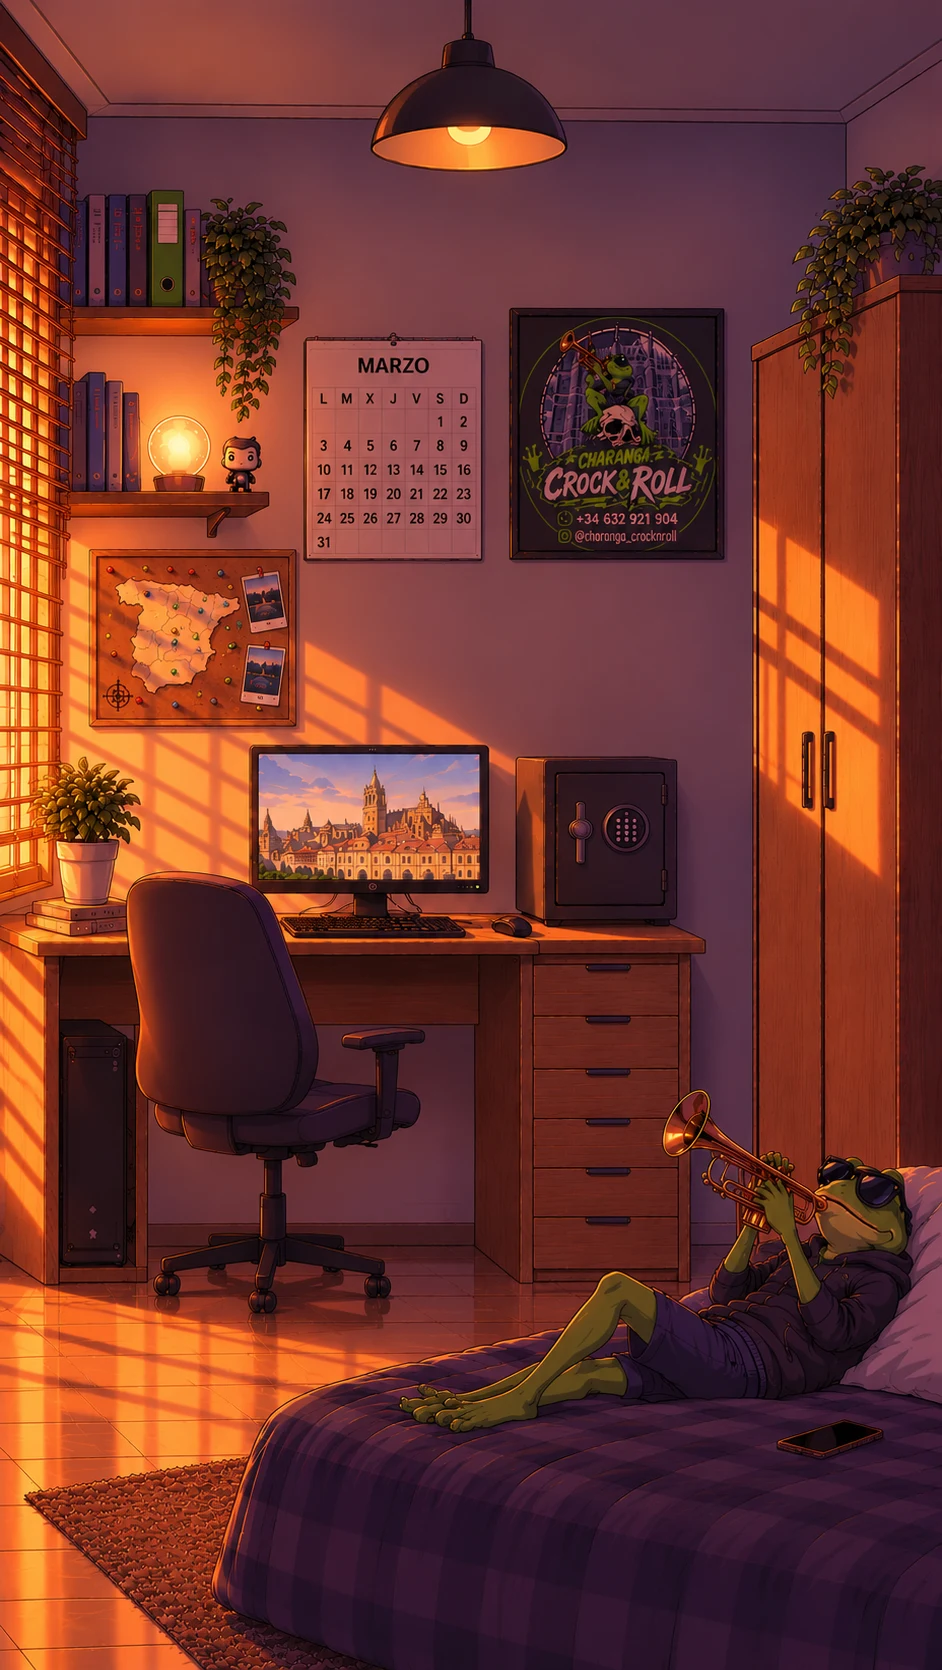
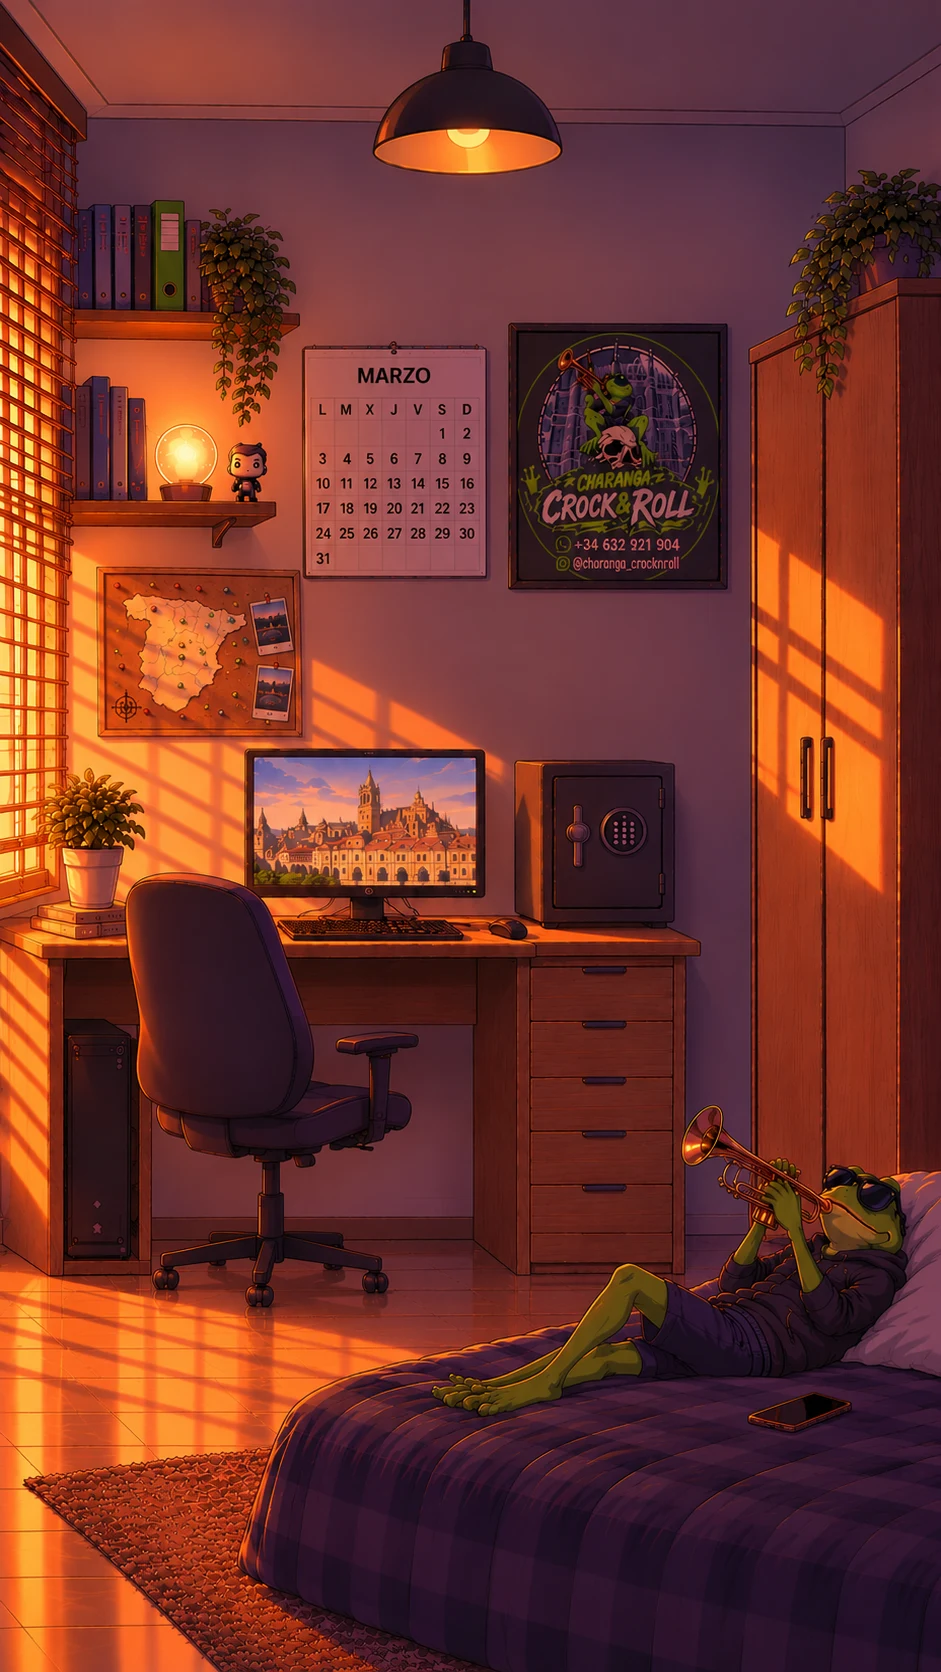
v3: imagen a pantalla completa

diff --git a/index.html b/index.html
@@ -42,14 +42,14 @@ button{font:inherit;color:inherit;cursor:pointer}
 @keyframes breathe{0%,100%{opacity:.45}50%{opacity:1}}
 
 .glow{border-radius:50%;mix-blend-mode:screen;transform:translate(-50%,-50%)}
-.lamp{left:49.9%;top:8.1%;width:70%;aspect-ratio:1;background:radial-gradient(circle,rgba(255,190,110,.38) 0%,rgba(255,160,80,.12) 35%,transparent 65%);animation:flicker 4s infinite}
-.cone{left:27.4%;top:8.3%;width:45%;height:40%;mix-blend-mode:screen;clip-path:polygon(40% 0,60% 0,100% 100%,0 100%);
+.lamp{left:49.6%;top:8.1%;width:70%;aspect-ratio:1;background:radial-gradient(circle,rgba(255,190,110,.38) 0%,rgba(255,160,80,.12) 35%,transparent 65%);animation:flicker 4s infinite}
+.cone{left:27.1%;top:8.3%;width:45%;height:40%;mix-blend-mode:screen;clip-path:polygon(40% 0,60% 0,100% 100%,0 100%);
   background:linear-gradient(rgba(255,190,120,.16),transparent 85%);animation:breathe 5s ease-in-out infinite}
-.globe{left:19.1%;top:27.1%;width:22%;aspect-ratio:1;background:radial-gradient(circle,rgba(255,215,130,.75) 0%,rgba(255,170,80,.2) 40%,transparent 70%);animation:pulse 3.2s ease-in-out infinite}
+.globe{left:19.6%;top:26.7%;width:22%;aspect-ratio:1;background:radial-gradient(circle,rgba(255,215,130,.75) 0%,rgba(255,170,80,.2) 40%,transparent 70%);animation:pulse 3.2s ease-in-out infinite}
 @keyframes flicker{0%,100%{opacity:1}45%{opacity:.85}48%{opacity:.6}50%{opacity:.95}70%{opacity:.88}}
 @keyframes pulse{0%,100%{opacity:.65;transform:translate(-50%,-50%) scale(.92)}50%{opacity:1;transform:translate(-50%,-50%) scale(1.08)}}
 
-.screen{left:27.4%;top:45%;width:23.8%;height:8.1%;mix-blend-mode:soft-light;border-radius:2px;
+.screen{left:26.9%;top:45.3%;width:24.1%;height:7.8%;mix-blend-mode:soft-light;border-radius:2px;
   background:linear-gradient(180deg,rgba(255,120,200,.5),rgba(255,200,90,.4),rgba(90,60,200,.5));background-size:100% 300%;animation:sky 9s ease-in-out infinite}
 @keyframes sky{0%,100%{background-position:0 0}50%{background-position:0 100%}}
 
@@ -76,21 +76,23 @@ button{font:inherit;color:inherit;cursor:pointer}
   display:grid;place-items:center;border:2px solid #2a0f14;box-shadow:0 0 10px rgba(255,93,110,.7);animation:pop 1.8s ease-in-out infinite}
 @keyframes pop{0%,100%{transform:scale(1)}50%{transform:scale(1.15)}}
 
-#hs-pc{left:26.4%;top:44.6%;width:25.6%;height:9.1%}
-#hs-safe{left:54.7%;top:45.2%;width:17.3%;height:10.2%}
-#hs-armario{left:79.8%;top:17.4%;width:20.2%;height:52.7%}
-#hs-armario .tag{top:30%;left:35%}
-#hs-cal{left:32.3%;top:20.2%;width:19%;height:13.4%}
-#hs-poster{left:54%;top:18.4%;width:22.9%;height:15.1%}
-#hs-rep{left:7.6%;top:11.3%;width:15.2%;height:7.1%}
-#hs-phone{left:82.3%;top:84.8%;width:11.8%;height:2.6%}
+#hs-pc{left:25.9%;top:44.7%;width:25.7%;height:9.1%}
+#hs-safe{left:54.6%;top:45.3%;width:17.2%;height:10.2%}
+#hs-armario{left:79.7%;top:16.7%;width:20.3%;height:53.8%}
+#hs-armario .tag{top:30%;left:12%}
+/* en el móvil la imagen llena la pantalla y se recortan un poco los lados: las etiquetas de los bordes se meten hacia dentro */
+#hs-rep .tag{left:80%}
+#hs-cal{left:32.1%;top:20.6%;width:19.8%;height:13.9%}
+#hs-poster{left:54%;top:19.3%;width:23.4%;height:16%}
+#hs-rep{left:7.7%;top:11.8%;width:14.9%;height:6.7%}
+#hs-phone{left:79.3%;top:83.1%;width:11.5%;height:2.5%}
 #hs-phone .tag{top:-40%}
 
 /* móvil de la cama: la pantalla se enciende con notificaciones */
-.phone-glow{left:88.1%;top:86.1%;width:13%;height:3.5%;border-radius:50%;mix-blend-mode:screen;transform:translate(-50%,-50%);
+.phone-glow{left:85%;top:84.4%;width:13%;height:3.5%;border-radius:50%;mix-blend-mode:screen;transform:translate(-50%,-50%);
   background:radial-gradient(ellipse,rgba(170,140,255,.9) 0%,rgba(120,90,255,.35) 40%,transparent 70%);opacity:0;animation:notif 7s ease-in-out infinite}
 @keyframes notif{0%,62%,100%{opacity:0}66%{opacity:1}88%{opacity:.85}}
-.phone-pop{left:88.1%;top:84.4%;font-size:clamp(12px,3.5vw,18px);transform:translate(-50%,0);opacity:0;animation:pop-heart 7s ease-out infinite}
+.phone-pop{left:85%;top:82.8%;font-size:clamp(12px,3.5vw,18px);transform:translate(-50%,0);opacity:0;animation:pop-heart 7s ease-out infinite}
 @keyframes pop-heart{0%,64%{opacity:0;transform:translate(-50%,0) scale(.4)}68%{opacity:1;transform:translate(-50%,-40%) scale(1.1)}85%{opacity:1;transform:translate(-50%,-140%) scale(1)}92%,100%{opacity:0;transform:translate(-50%,-200%) scale(.9)}}
 
 /* redes sociales */
@@ -107,7 +109,7 @@ button{font:inherit;color:inherit;cursor:pointer}
 
 
 /* cuadro del mapa en la pared */
-#hs-mapa{left:9.4%;top:32.8%;width:22.1%;height:10.7%}
+#hs-mapa{left:10.2%;top:33.9%;width:21.8%;height:10.2%}
 
 /* página del mapa */
 .map-search{display:flex;gap:6px;margin-bottom:10px}
@@ -272,9 +274,9 @@ body.in-menu .music{opacity:0;pointer-events:none}
 .acts a{width:36px;height:36px;border-radius:10px;display:grid;place-items:center;background:#120d1f;border:1px solid var(--line);text-decoration:none;font-size:16px}
 
 /* caja fuerte: piloto del teclado parpadeando + destello dorado al abrir */
-.safe-led{left:66.2%;top:49.5%;width:1.1%;aspect-ratio:1;border-radius:50%;background:#7dff5a;box-shadow:0 0 6px 2px rgba(125,255,90,.8);transform:translate(-50%,-50%);animation:led 2.2s steps(1) infinite}
+.safe-led{left:66.2%;top:49.6%;width:1.1%;aspect-ratio:1;border-radius:50%;background:#7dff5a;box-shadow:0 0 6px 2px rgba(125,255,90,.8);transform:translate(-50%,-50%);animation:led 2.2s steps(1) infinite}
 @keyframes led{0%,60%{opacity:1}61%,100%{opacity:.15}}
-.safe-glow{left:63.3%;top:50.3%;width:45%;aspect-ratio:1;border-radius:50%;mix-blend-mode:screen;transform:translate(-50%,-50%) scale(.3);opacity:0;
+.safe-glow{left:63.2%;top:50.4%;width:45%;aspect-ratio:1;border-radius:50%;mix-blend-mode:screen;transform:translate(-50%,-50%) scale(.3);opacity:0;
   background:radial-gradient(circle,rgba(255,225,120,.9) 0%,rgba(255,180,60,.35) 35%,transparent 65%);transition:opacity .4s,transform .5s cubic-bezier(.3,1.5,.5,1)}
 #stage.safe-open .safe-glow{opacity:1;transform:translate(-50%,-50%) scale(1)}
 #stage.safe-open .safe-led{background:#ffd34d;box-shadow:0 0 8px 3px rgba(255,211,77,.9);animation:none}
@@ -290,6 +292,7 @@ body.in-menu .music{opacity:0;pointer-events:none}
 .hint{position:fixed;left:50%;bottom:max(14px,env(safe-area-inset-bottom));transform:translateX(-50%);z-index:5;background:rgba(18,13,31,.75);border:1px solid var(--line);
   padding:7px 14px;border-radius:20px;font-size:13px;color:var(--muted);white-space:nowrap;transition:opacity .3s;backdrop-filter:blur(4px)}
 body.in-menu .hud,body.in-menu .hint{opacity:0;pointer-events:none}
+@media (max-width:380px){.hud{gap:6px;padding-left:10px;padding-right:10px}.chip{padding:5px 8px;font-size:12px;gap:3px}.logo{width:32px;height:32px;font-size:18px}.brand b{font-size:17px}}
 
 /* ---------- PANEL (bottom sheet) ---------- */
 .sheet{position:fixed;left:50%;bottom:0;z-index:10;width:min(100%,520px);height:88%;transform:translate(-50%,105%);transition:transform .45s cubic-bezier(.2,.9,.3,1);
@@ -544,12 +547,15 @@ function refreshHud() {
 
 /* ================= ESCENA ================= */
 const stage = $('#stage'), img = $('#room');
-let IW = 942, IH = 1670;
+let IW = 941, IH = 1672;
+// en vertical (móvil) la imagen llena toda la pantalla, recortando un poco los lados si hace falta;
+// en horizontal (ordenador) se ve entera, centrada
 function layout() {
-  const W = innerWidth, H = innerHeight;
-  const s = Math.min(W / IW, H / IH);
+  const W = innerWidth, H = innerHeight, vertical = H >= W;
+  const s = vertical ? Math.max(W / IW, H / IH) : Math.min(W / IW, H / IH);
   const w = IW * s, h = IH * s;
-  Object.assign(stage.style, { width: w + 'px', height: h + 'px', left: (W - w) / 2 + 'px', top: Math.max(0, (H - h) / 2) + 'px' });
+  Object.assign(stage.style, { width: w + 'px', height: h + 'px', left: (W - w) / 2 + 'px', top: (H - h) / 2 + 'px' });
+  img.style.borderRadius = vertical ? '0' : '';
 }
 img.onload = () => { IW = img.naturalWidth; IH = img.naturalHeight; layout(); };
 
@@ -576,8 +582,8 @@ function spawnNote() {
   const n = document.createElement('span');
   n.className = 'note';
   n.textContent = ['♪', '♫', '♬', '♩'][Math.random() * 4 | 0];
-  n.style.left = (71 + Math.random() * 3) + '%';
-  n.style.top = (65.5 + Math.random() * 2) + '%';
+  n.style.left = (73 + Math.random() * 3) + '%';
+  n.style.top = (66 + Math.random() * 2) + '%';
   n.style.setProperty('--nx', (Math.random() * 50 - 40) + 'px');
   n.style.setProperty('--nr', (Math.random() * 60 - 30) + 'deg');
   $('#notes').appendChild(n);

diff --git a/nube.js b/nube.js
@@ -5,6 +5,7 @@
      entra como Directiva (contraseña) o como Músico (su nombre + PIN de 4 cifras).
    Se carga DESPUÉS del script principal, así que puede usar DB, save, toast, etc.
    ===================================================================== */
+window.APP_VERSION = 'v3'; // se sube a la vez que VERSION en sw.js en cada cambio
 window.Nube = (() => {
   const cfg = window.FIREBASE_CONFIG || {};
   const configurada = !!(cfg.apiKey && cfg.projectId);
@@ -226,12 +227,14 @@ window.Nube = (() => {
   /* ---------- apartado en Ajustes ---------- */
   function ajustesHtml() {
     if (!configurada) return `<div class="conv-box"><div class="conv-head"><b>☁ Nube</b><span class="pill">Modo local</span></div>
-      <p class="conv-tip">Los datos solo se guardan en este dispositivo. Para compartir la app con la charanga, rellena <b>firebase-config.js</b> (mira el README).</p></div>`;
+      <p class="conv-tip">Los datos solo se guardan en este dispositivo. Para compartir la app con la charanga, rellena <b>firebase-config.js</b> (mira el README).</p>
+      <p class="conv-tip" style="text-align:center">Versión de la app: ${window.APP_VERSION}</p></div>`;
     const admin = esAdmin();
     const txt = { conectando: 'Conectando…', subiendo: 'Guardando…', ok: 'Sincronizado', error: 'Problema de conexión' }[estado] || '';
     return `<div class="conv-box"><div class="conv-head"><b>☁ Sesión</b><span class="pill ${estado === 'ok' ? 'ok' : estado === 'error' ? 'bad' : 'warn'}">${txt}</span></div>
       <p class="conv-tip">Has entrado como <b style="color:var(--text)">${admin ? 'Directiva' : esc(sesion && sesion.nombre || 'Músico')}</b>.${admin ? '' : ' Puedes ver todo y apuntarte a los bolos; lo demás lo gestiona la directiva.'}</p>
-      <button type="button" class="btn" id="nb-salir">Cerrar sesión</button></div>
+      <button type="button" class="btn" id="nb-salir">Cerrar sesión</button>
+      <p class="conv-tip" style="text-align:center">Versión de la app: ${window.APP_VERSION}</p></div>
     ${admin ? `<div class="conv-box"><div class="conv-head"><b>🔑 Accesos</b></div>
       <label>Nueva contraseña de la directiva<input id="nb-pass" type="password" autocomplete="new-password"></label>
       <button type="button" class="btn" id="nb-pass-ok">Cambiar contraseña</button>

diff --git a/firebase-config.js b/firebase-config.js
@@ -1,12 +1,12 @@
-/* Configuración de Firebase de la charanga.
-   Cópiala de: Firebase › Configuración del proyecto › General › Tus apps › App web › "Configuración del SDK" (opción Config).
-   Mientras esté vacía, la app funciona en MODO LOCAL: los datos solo se guardan en el dispositivo y no hay inicio de sesión.
-   Estos datos no son secretos (van en cualquier web que use Firebase); lo que protege la base de datos son las reglas. */
+/* Configuración de Firebase de la charanga (proyecto crockandroll-3261a).
+   Estos datos no son secretos (van en cualquier web que use Firebase); lo que protege la base de datos son las reglas.
+   Si se deja vacía, la app funciona en MODO LOCAL: los datos solo se guardan en el dispositivo y no hay inicio de sesión. */
 window.FIREBASE_CONFIG = {
-  apiKey: "",
-  authDomain: "",
-  projectId: "",
-  storageBucket: "",
-  messagingSenderId: "",
-  appId: ""
+  apiKey: "AIzaSyBcg063fH-CNQvd0R-r2ztmnwv1Vo3CTYk",
+  authDomain: "crockandroll-3261a.firebaseapp.com",
+  projectId: "crockandroll-3261a",
+  storageBucket: "crockandroll-3261a.firebasestorage.app",
+  messagingSenderId: "382221837129",
+  appId: "1:382221837129:web:57ac5e9607e743e0f47098",
+  measurementId: "G-GL4BKXZY02"
 };

diff --git a/sw.js b/sw.js
@@ -1,6 +1,6 @@
 /* Crock&Roll HQ · service worker: guarda la app para que abra rápido y funcione sin conexión.
    Sube el número de VERSION cada vez que publiques cambios para que los móviles se actualicen. */
-const VERSION = 'crocknroll-v1';
+const VERSION = 'crocknroll-v3';
 const APP = ['./', './index.html', './nube.js', './firebase-config.js', './manifest.json', './habitacion.webp', './espana.json',
   './icons/icon-192.png', './icons/icon-512.png', './icons/apple-touch-icon.png'];
 const EXTERNOS = ['https://www.gstatic.com/firebasejs/10.8.0/firebase-app-compat.js',

diff --git a/README.md b/README.md
@@ -27,10 +27,10 @@ El plan gratuito (Spark) sobra para una charanga.
 
 ## 2. Publicarla en GitHub Pages
 
-1. En GitHub crea un repositorio **público** nuevo, por ejemplo `crocknroll`.
+1. En GitHub crea un repositorio **público** nuevo, por ejemplo `crock-roll`.
 2. *Add file* → *Upload files* → arrastra **todo el contenido** de esta carpeta (incluida la carpeta `icons` y el archivo `.nojekyll`) → *Commit changes*.
 3. *Settings* → *Pages* → *Build and deployment* → *Deploy from a branch* → rama `main`, carpeta `/ (root)` → Save.
-4. En un par de minutos estará en `https://oscarzurguen-bot.github.io/crocknroll/`.
+4. En un par de minutos estará en `https://oscarzurguen-bot.github.io/crock-roll/`.
 5. En Firebase → **Authentication** → *Configuración* → *Dominios autorizados* → *Añadir dominio* → `oscarzurguen-bot.github.io`.
 
 ## 3. Primer arranque (directiva)
